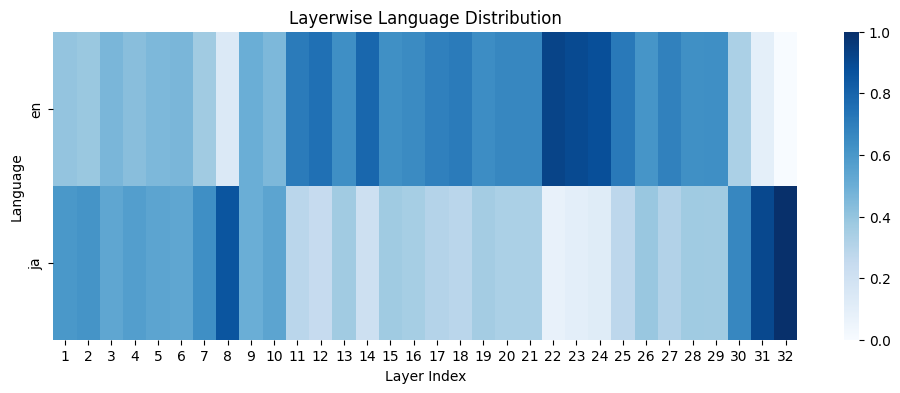
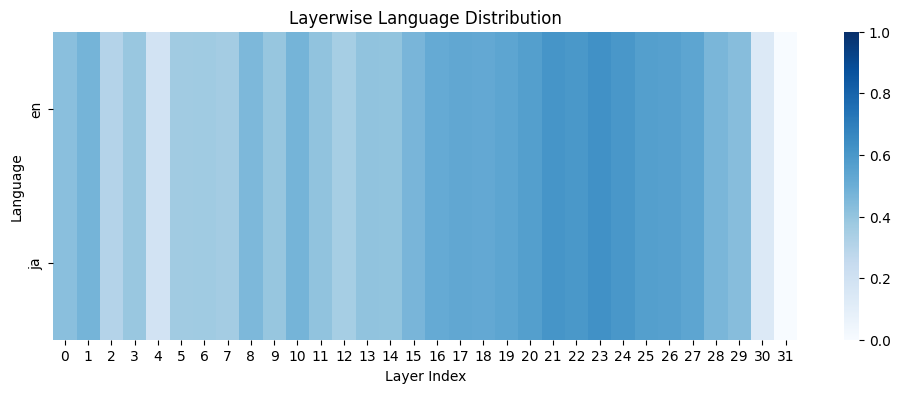
update

diff --git a/activated_neuron/new_neurons/transfer_neurons/cld3/all_models.py b/activated_neuron/new_neurons/transfer_neurons/cld3/all_models.py
@@ -45,10 +45,10 @@ for model_name in model_names:
     for is_reverse in is_reverses:
         for score_type in score_types:
             for L2 in langs:
-                ratio_en = np.zeros((layer_num, qa_num)) # en-L2 token_numnの割合を保存しておくarray(後で平均を計算する用)
-                ratio_L2 = mean_total_count_en = np.zeros((layer_num, qa_num)) # en-L2 token_numnの割合を保存しておくarray(後で平均を計算する用)
+                ratio_en = np.zeros((layer_num, qa_num)) # en token_numの数を保存しておくarray(後で平均を計算する用)
+                ratio_L2 = np.zeros((layer_num, qa_num)) # L2 token_numの数を保存しておくarray(後で平均を計算する用)
                 ratio_en_baseline = np.zeros((layer_num, qa_num))
-                ratio_L2_baseline = mean_total_count_en = np.zeros((layer_num, qa_num))
+                ratio_L2_baseline = np.zeros((layer_num, qa_num))
 
                 for i in range(len(qa['queries'])):
                     if i == qa_num: break
@@ -103,47 +103,50 @@ for model_name in model_names:
                     if score_type == "cos_sim" and is_reverse == "normal":
                         # normal
                         lang_stats_normal = layerwise_lang_stats(tokens_dict, L2)
-                        lang_distribution_normal = layerwise_lang_distribution(lang_stats_normal, L2)
                         for layer_i in range(layer_num):
-                            ratio_en[layer_i, i] = lang_distribution_normal[layer_i]['en'] # i: question_idx.
-                            ratio_L2[layer_i, i] = lang_distribution_normal[layer_i][L2] 
+                            ratio_en[layer_i, i] = lang_stats_normal[layer_i]['en'] # i: question_idx.
+                            ratio_L2[layer_i, i] = lang_stats_normal[layer_i][L2] 
 
                     if is_reverse != "normal":
                         # high APs intervention
                         lang_stats_intervention = layerwise_lang_stats(tokens_dict_intervention, L2)
-                        lang_distribution_intervention = layerwise_lang_distribution(lang_stats_intervention, L2)
                         for layer_i in range(layer_num):
-                            ratio_en[layer_i, i] = lang_distribution_intervention[layer_i]['en']
-                            ratio_L2[layer_i, i] = lang_distribution_intervention[layer_i][L2]
+                            ratio_en[layer_i, i] = lang_stats_intervention[layer_i]['en']
+                            ratio_L2[layer_i, i] = lang_stats_intervention[layer_i][L2]
 
                         # baseline intervention
                         lang_stats_baseline = layerwise_lang_stats(tokens_dict_baseline, L2)
-                        lang_distribution_baseline = layerwise_lang_distribution(lang_stats_baseline, L2)
                         for layer_i in range(layer_num):
-                            ratio_en_baseline[layer_i, i] = lang_distribution_baseline[layer_i]['en']
-                            ratio_L2_baseline[layer_i, i] = lang_distribution_baseline[layer_i][L2]
+                            ratio_en_baseline[layer_i, i] = lang_stats_baseline[layer_i]['en']
+                            ratio_L2_baseline[layer_i, i] = lang_stats_baseline[layer_i][L2]
 
-                lang_distribution_normal = defaultdict(defaultdict(float))
-                lang_distribution_intervention = defaultdict(defaultdict(float))
-                lang_distribution_baseline = defaultdict(defaultdict(float))
+                lang_stats_normal = defaultdict(lambda: defaultdict(int))
+                lang_stats_intervention = defaultdict(lambda: defaultdict(int))
+                lang_stats_baseline = defaultdict(lambda: defaultdict(int))
                 for layer_i in range(layer_num):
                     if score_type == "cos_sim" and is_reverse == "normal":
-                        lang_distribution_normal[layer_i]['en'] = float(np.mean(ratio_en[layer_i, :]))
-                        lang_distribution_normal[layer_i][L2] = float(np.mean(ratio_en[layer_i, :]))
+                        lang_stats_normal[layer_i]['en'] = int(np.mean(ratio_en[layer_i, :]))
+                        lang_stats_normal[layer_i][L2] = int(np.mean(ratio_en[layer_i, :]))
+                        lang_stats_normal[layer_i]['total_count'] = lang_stats_normal[layer_i]['en'] + lang_stats_normal[layer_i][L2]
                     else: # intervention.
-                        lang_distribution_intervention[layer_i]['en'] = float(np.mean(ratio_en[layer_i, :]))
-                        lang_distribution_intervention[layer_i][L2] = float(np.mean(ratio_en[layer_i, :]))
-                        lang_distribution_baseline[layer_i]['en'] = float(np.mean(ratio_en_baseline[layer_i, :]))
-                        lang_distribution_baseline[layer_i][L2] = float(np.mean(ratio_en_baseline[layer_i, :]))
+                        lang_stats_intervention[layer_i]['en'] = int(np.mean(ratio_en[layer_i, :]))
+                        lang_stats_intervention[layer_i][L2] = int(np.mean(ratio_en[layer_i, :]))
+                        lang_stats_intervention[layer_i]['total_count'] = lang_stats_intervention[layer_i]['en'] + lang_stats_intervention[layer_i][L2]
+                        lang_stats_baseline[layer_i]['en'] = int(np.mean(ratio_en_baseline[layer_i, :]))
+                        lang_stats_baseline[layer_i][L2] = int(np.mean(ratio_en_baseline[layer_i, :]))
+                        lang_stats_baseline[layer_i]['total_count'] = lang_stats_baseline[layer_i]['en'] + lang_stats_baseline[layer_i][L2]
 
 
                 """ visualization (intervention). """
                 if score_type == "cos_sim" and is_reverse == "normal":
+                    lang_distribution_normal = layerwise_lang_distribution(lang_stats_normal, L2)
                     plot_lang_distribution(lang_distribution_normal, "normal", model_type, intervention_num, L2)
                 if is_reverse != "normal":
                     # intervention
+                    lang_distribution_intervention = layerwise_lang_distribution(lang_stats_intervention, L2)
                     plot_lang_distribution(lang_distribution_intervention, score_type, model_type, intervention_num, L2, is_reverse)
                     # intervention baseline
+                    lang_distribution_baseline = layerwise_lang_distribution(lang_stats_baseline, L2)
                     plot_lang_distribution(lang_distribution_baseline, score_type, model_type, intervention_num, L2, is_reverse)
                 
     # delete caches
